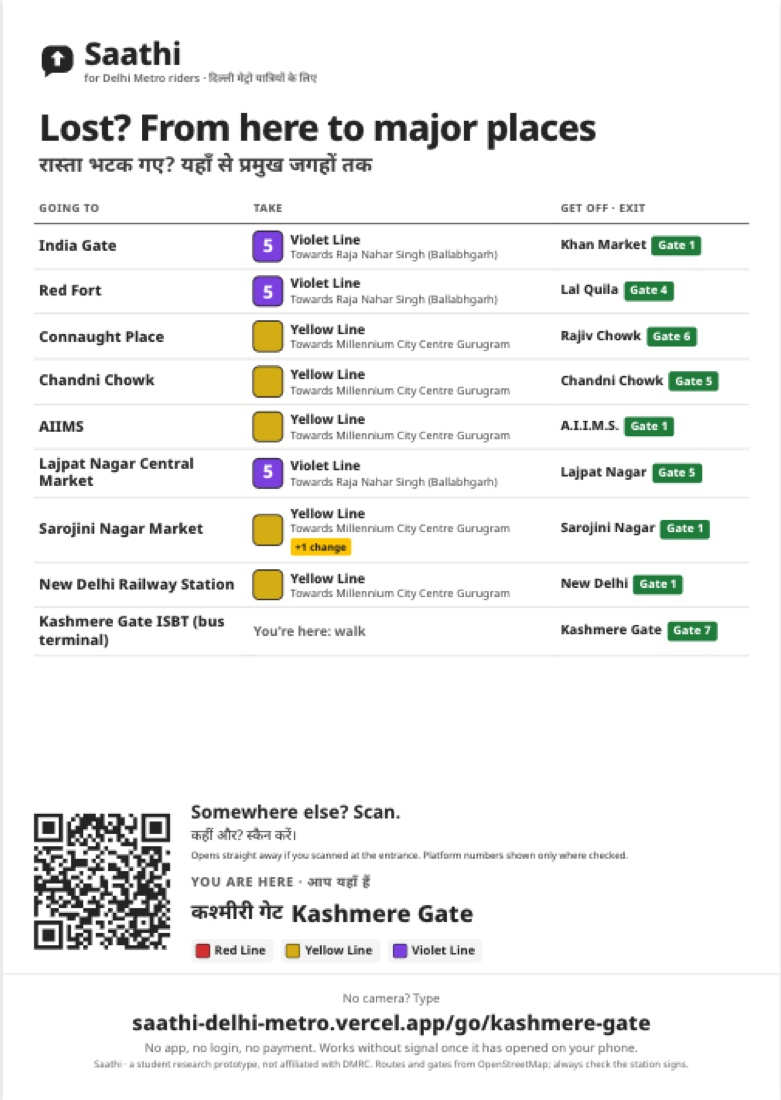
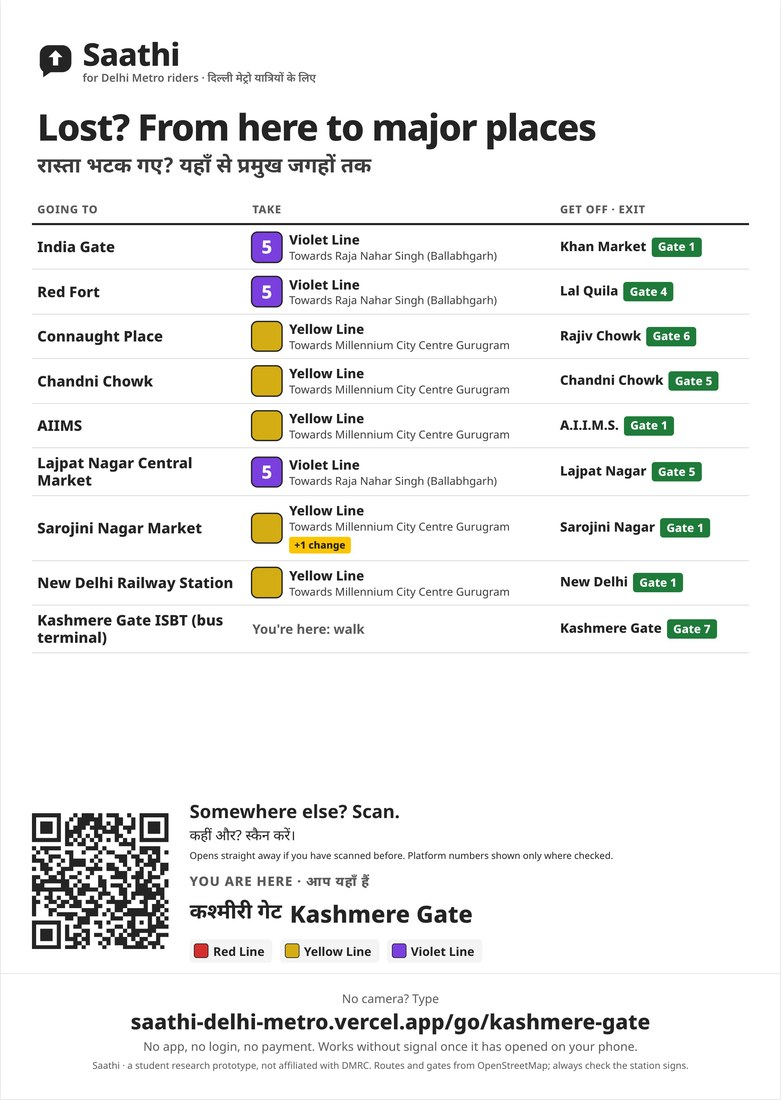
Signal: QR boards inside the station, at the counters and the map

diff --git a/app/signal/page.js b/app/signal/page.js
@@ -22,7 +22,7 @@ import { BeforeAfter, Collage, ColourVision, Journey, GridSpec, SignFamily, KeyD
 // Outcome-led: the problem and the impact, then the work. Research and the test write-up live in the deck.
 const GROUPS = [
   ['Intro', [['overview', 'Overview'], ['problem', 'The problem'], ['result', 'The impact']]],
-  ['The work', [['idea', 'The idea'], ['signs', 'The signs'], ['spec', 'The sign system'], ['system', 'The ticket and QR board'], ['saathi', 'Saathi'], ['journey', 'The journey']]],
+  ['The work', [['idea', 'The idea'], ['signs', 'The signs'], ['spec', 'The sign system'], ['system', 'The ticket and QR boards'], ['saathi', 'Saathi'], ['journey', 'The journey']]],
   ['Wrap up', [['limits', 'Trade-offs'], ['outcome', 'What’s next']]],
 ]
 const IDS = GROUPS.flatMap(([, items]) => items.map(([id]) => id))
@@ -216,17 +216,25 @@ export default function Signal() {
       </Section>
 
       {/* ---------- The ticket and QR board ---------- */}
-      <Section id="system" n="06" title="The ticket and QR board" lede="The same key is on the paper ticket, and a QR board at the entrance opens Saathi for riders who get lost.">
-        <div className="track-wide mt-16 grid items-start gap-4 sm:grid-cols-[1fr_2fr]">
+      <Section id="system" n="06" title="The ticket and QR boards" lede="The same key is on the paper ticket. Inside the station, QR boards hang where lost riders already go to ask: the customer care counter, the ticket counter and the station map.">
+        <div className="track-wide mt-16 grid items-start gap-4 sm:grid-cols-3">
           <figure className="mx-auto w-full max-w-[280px] sm:max-w-none">
             <img src={`${W}/ticket.jpg`} alt="The redesigned paper ticket: platform 5, Violet Line, Mandi House · Lajpat Nagar, printed in black on the existing thermal printer" loading="lazy" className="block w-full rounded-xl" style={{ border: '1px solid var(--rule)' }} />
             <figcaption className="text-faint mt-2" style={{ fontSize: '0.85rem' }}>The same thermal printer, in black only.</figcaption>
           </figure>
           <figure>
-            <img src={`${W}/render-entrance.jpg`} alt="Concept render: the entrance board on a pillar by the stairs, a phone showing the Saathi page it opens" loading="lazy" className="block w-full rounded-xl" style={{ border: '1px solid var(--rule)' }} />
-            <figcaption className="text-faint mt-2" style={{ fontSize: '0.85rem' }}>Scan above ground; the route stays on the phone below.</figcaption>
+            <img src="/signal/gallery/board-entrance.jpg" alt="The counter board: Saathi asks “Where are you going?”, with the QR code that opens it at Kashmere Gate" loading="lazy" className="block w-full rounded-xl" style={{ border: '1px solid var(--rule)' }} />
+            <figcaption className="text-faint mt-2" style={{ fontSize: '0.85rem' }}>Counter board: at customer care and the ticket counter.</figcaption>
+          </figure>
+          <figure>
+            <img src="/signal/gallery/board-inside.jpg" alt="The map board: a printed table of major places from Kashmere Gate with line, direction, station and gate, and a QR code" loading="lazy" className="block w-full rounded-xl" style={{ border: '1px solid var(--rule)' }} />
+            <figcaption className="text-faint mt-2" style={{ fontSize: '0.85rem' }}>Map board: beside the station map. It works with no phone.</figcaption>
           </figure>
         </div>
+        <figure className="track-wide mt-6">
+          <img src={`${W}/render-counter.jpg`} alt="Concept render: inside a metro concourse, a rider scans the Saathi counter board on a pillar beside the customer care counter while two people queue at the window" loading="lazy" className="block aspect-[16/9] w-full rounded-xl object-cover" style={{ border: '1px solid var(--rule)' }} />
+          <figcaption className="text-faint mt-2" style={{ fontSize: '0.85rem' }}>Beside customer care, where lost riders already queue to ask. Concept render; the board is the real artwork.</figcaption>
+        </figure>
       </Section>
 
       {/* ---------- Demo: Saathi ---------- */}
@@ -259,7 +267,7 @@ export default function Signal() {
           <Tradeoffs items={[
             ['Signs have to fit today’s frames', 'One row per platform, inside the existing panel', 'No room for maps or long station lists'],
             ['Some riders have no smartphone', 'Every step works on signs and the ticket alone', 'The phone can only add, never fix a bad sign'],
-            ['No signal underground', 'Plan at the entrance; the route saves on the phone', 'It needs one scan above ground'],
+            ['No signal underground', 'Boards where riders already ask; once opened, the route stays on the phone', 'The first scan needs signal where the board hangs'],
           ]} />
         </div>
       </Section>

diff --git a/app/signal/system.jsx b/app/signal/system.jsx
@@ -182,7 +182,7 @@ export function SignFamily() {
   return (
     <figure className="track-wide mt-10 overflow-x-auto">
       <svg viewBox="-34 -6 940 380" className="block w-full min-w-[46rem] text-faint" role="img" style={{ fontFamily: SIGN_FONT }}
-        aria-label="The sign family to scale beside a 1650 mm rider: an A3 entrance board at eye height, a 600 by 2000 mm platform totem, a 1600 by 300 mm walkway sign and a 2400 by 300 mm fork sign, both hung with their underside at a proposed 2500 mm.">
+        aria-label="The sign family to scale beside a 1650 mm rider: an A3 QR board at the counter, at eye height, a 600 by 2000 mm platform totem, a 1600 by 300 mm walkway sign and a 2400 by 300 mm fork sign, both hung with their underside at a proposed 2500 mm.">
         {/* height grid */}
         {grid.map((mm) => (
           <g key={mm}>
@@ -205,7 +205,7 @@ export function SignFamily() {
         </g>
         {label(30, 50, 'Rider', '1650 mm, for scale')}
 
-        {/* entrance board on a pillar, centred at eye height */}
+        {/* QR board on a pillar by the counter, centred at eye height */}
         <rect x="124" y="0" width="56" height={F} fill="currentColor" opacity="0.12" />
         <g>
           <rect x="137" y={y(1710)} width="30" height="42" fill="#fbfbf8" stroke="currentColor" strokeWidth="0.6" />
@@ -216,7 +216,7 @@ export function SignFamily() {
           <rect x="154" y={y(1550)} width="9" height="1.6" fill="#242424" opacity=".6" />
           <rect x="154" y={y(1520)} width="7" height="1.6" fill="#242424" opacity=".6" />
         </g>
-        {label(124, 56, 'Entrance QR board', 'A3, centre at 1500 mm')}
+        {label(124, 56, 'Counter QR board', 'A3, centre at 1500 mm')}
 
         {/* platform totem */}
         <g>
@@ -512,9 +512,9 @@ export function LineTable() {
 /* More of the system, drifting past: only pieces that appear nowhere else on the page. */
 const GALLERY = [
   ['screen-stops', 'phone', 'Saathi with the stop list open: the eleven stations to Lajpat Nagar, in English and Hindi'],
-  ['board-inside', 'board', 'The inside board: a printed table of places from Kashmere Gate, each with its platform and gate'],
+  ['board-inside', 'board', 'The map board: a printed table of places from Kashmere Gate, each with its platform and gate'],
   ['screen-trip-hi', 'phone', 'Saathi in Hindi: the whole trip, platform 5, change at Lajpat Nagar to platform 3'],
-  ['board-entrance', 'board', 'The entrance board: where are you going, with the QR code that opens Saathi'],
+  ['board-entrance', 'board', 'The counter board: where are you going, with the QR code that opens Saathi'],
   ['screen-exit', 'phone', 'Saathi to a place: Gate 5, nearest Lajpat Nagar Central Market, a 3 minute walk'],
   ['screen-landing-hi', 'phone', 'Saathi’s first screen in Hindi', '#ffffff'],
 ]
@@ -568,7 +568,7 @@ export function BeforeAfter() {
 
 /* One trip, step by step: what a new rider had to go on, and what they have now. */
 const JOURNEY = [
-  ['Street', 'Which way to my train?', 'A map app, if there’s signal', 'A QR board opens Saathi; the route stays offline', 'Built · untested'],
+  ['Customer care', 'Which way to my train?', 'A map app, if there’s signal', 'A QR board at the counter opens Saathi; the route stays on the phone', 'Built · untested'],
   ['Ticket counter', 'Where do I go after the gates?', 'The fare printed largest', 'The ticket prints platform 5 · Violet Line', 'Built · 1 tester'],
   ['The fork', 'Which of three platforms?', 'One arrow, last stations only', 'One row per platform: Mandi House · Lajpat Nagar', 'Tested with 84 riders'],
   ['Top of the stairs', 'Is this my side?', 'The last station again, nothing to confirm it', 'The same violet 5 confirms it', 'Same key as the fork'],
